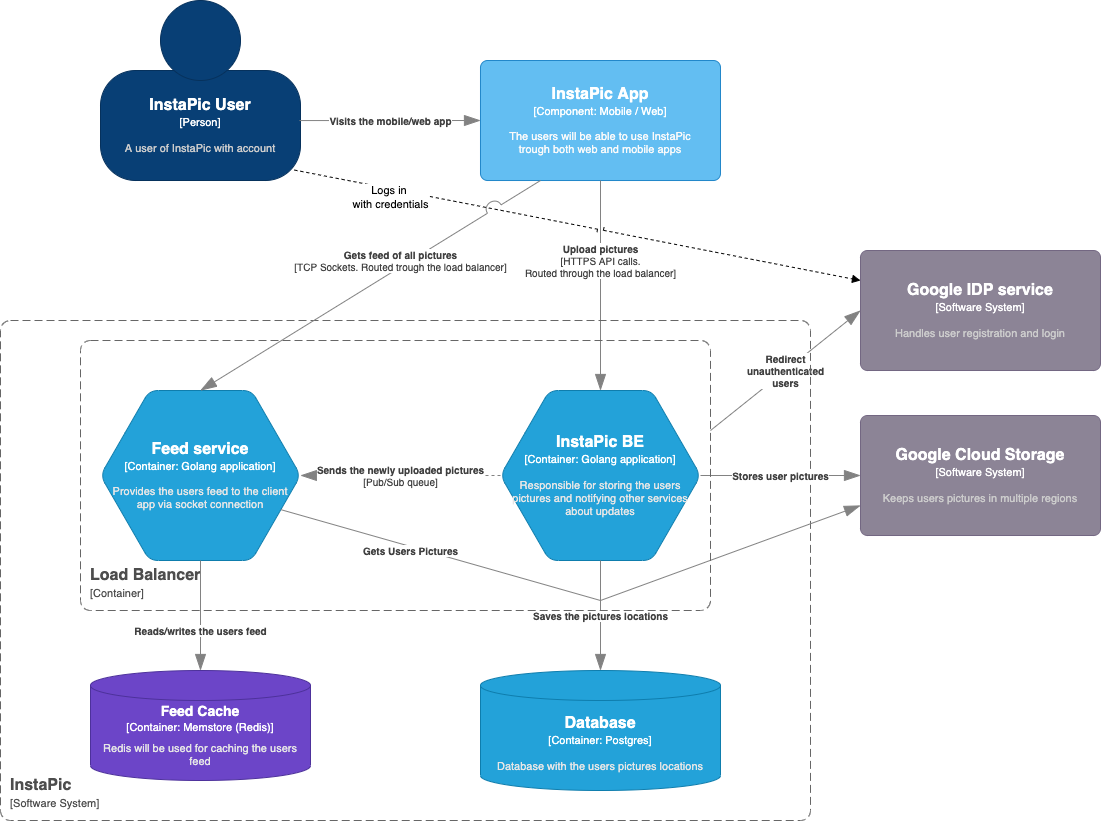
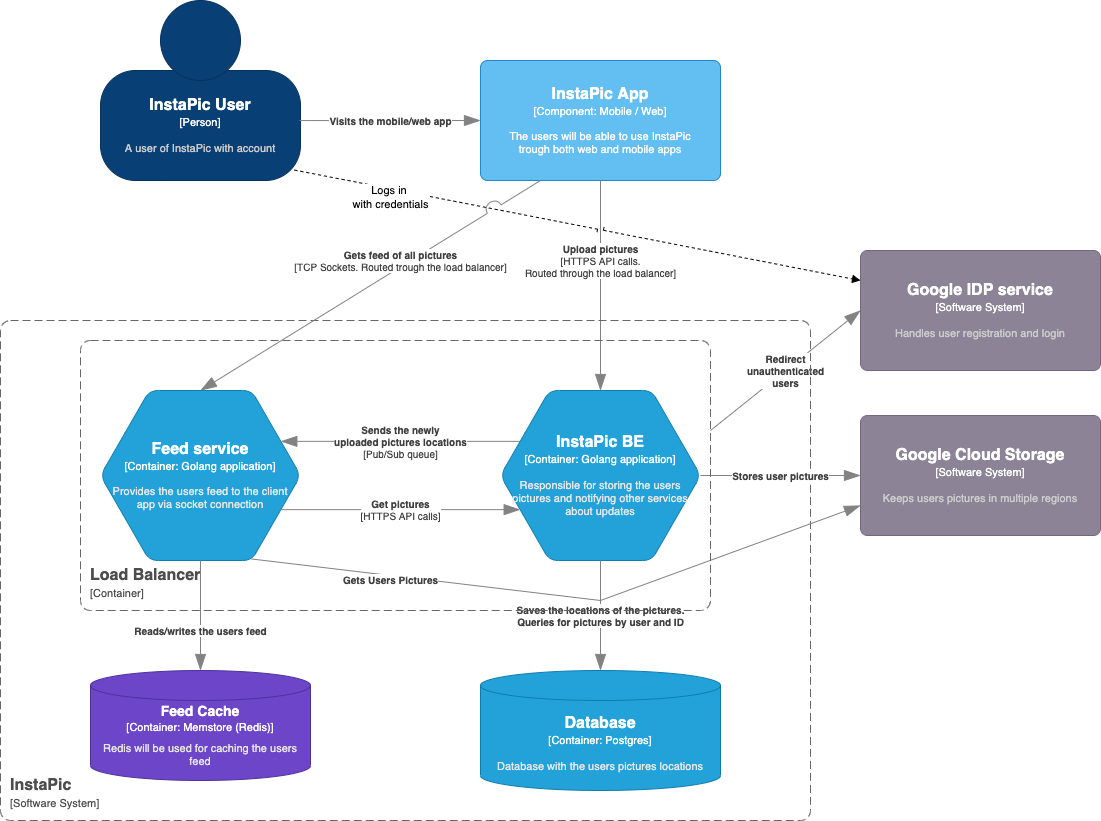
Add recent design docs

diff --git a/decisions/0001-use-google-kubernetes-engine.md b/decisions/0001-use-google-kubernetes-engine.md
@@ -11,19 +11,19 @@ We need a way to deploy and manage our service.
 
 Evaluated  ideas:
 1. Deploying directly on a VM - Hard to maintain, we have to orchestrate the deployment and monitoring of the process, not necessarily cheaper
-1. Using managed platform - Handles a lot of complexity for you f.e monitoring and restarting the process. Network communication between containers. Better utilization of resources etc.
+1. Using managed platform - Handles a lot of complexity for you f.e monitoring and restarting the process. Network communication between containers. Better utilisation of resources etc.
 
 
 ## Decision
 
-KGE provides good abstraction over the hypervisor layer with enough access to the underlying resources to be flexible when you need. Kubernetes has good utilization of resources. Provides Liveness, Readiness and Start probes, flexible auto-scaling depending on the user needs and more.
+KGE provides good abstraction over the hypervisor layer with enough access to the underlying resources to be flexible when you need. Kubernetes has good utilisation of resources. Provides Liveness, Readiness and Start probes, flexible auto-scaling depending on the user needs and more.
 
 Using it as a service provided from Google will enable us to focus on the InstaPic application itself, instead of managing infrastructure, as well as access to other GCP services via internal network.
 
 ## Consequences
 Pros:
 - The team will focus on developing the app itself
-- Outsourcing responsibilities around keeping the process alive, zero downtime deployment, auto-scailing etc. 
+- Outsourcing responsibilities around keeping the process alive, zero downtime deployment, auto-scaling etc.
 
 Cons:
 - Tight coupling with the provider.

diff --git a/decisions/0007-updating-feed-service-about-new-images.md b/decisions/0007-updating-feed-service-about-new-images.md
@@ -1,0 +1,24 @@
+# 7. Updating the feed service about new images
+Date: 2022-07-06
+
+## Status
+
+Pending
+
+## Context
+
+The feed service will update the users feed realtime, hence it has to know when new image is uploaded. There can be multiple instances of the feed service and all of them need to know about the update. Subscription based update fits this scenario perfectly.
+
+But also on starting a new Feed service or when a user requests his feed the service will need to fetch specific set of pictures (last 20-30 or the once uploaded by a given user)
+
+## Decision
+
+Pub/Sub and API calls.
+
+Pub/Sub - Every new instance of the Feed service will create it's own subscription for the Topic where the new images are pushed. Cache them in memory and in centralised cache.
+
+The main service will expose an API trough which other services (the Feed service) will be able to query images by user, or id.
+
+
+## Consequences
+Having a queue will easily allow other services to know about images, without the main service knowing about them.

diff --git a/decisions/0008-caching-in-the-feed.md b/decisions/0008-caching-in-the-feed.md
@@ -1,0 +1,24 @@
+# 8. Caching in the Feed service
+Date: 2022-07-06
+
+## Status
+
+Pending
+
+## Context
+
+When showing the general feed we will be loading a batch of the latest images. Loading them every time will add huge load to the database, the file storage and the network. Scrolling down the feed we will have to load more batches, for the user
+
+## Decision
+
+The Feed service will keep in-memory the latest batch of images, at it's going to be returned to all the users. The next 10 batches will be cached in Redis in binary format, so when the user scrolls we'll be able to retrieve them faster.
+
+
+
+## Consequences
+Pros:
+- Showing the general feed will be fast and efficient until the cached batches.
+
+Cons:
+- Showing the feed past the cached images will be slow. It will require API call to the main service and fetching the images from GCS.
+- Showing the personal feed of a user will require calls to the main service, to retrieve his already uploaded images.

diff --git a/decisions/0004-split-the-backend-in-main-service-and-feed-service.md b/decisions/0004-split-the-backend-in-main-service-and-feed-service.md
@@ -1,0 +1,27 @@
+# 4. Split the backend in main and feed services
+Date: 2022-07-06
+
+## Status
+
+Pending
+
+## Context
+
+InstaPic will allow for few operations:
+ - Upload pictures
+ - View Feed
+
+Where uploading will be less frequent. And viewing the feed will be frequent operation - every user who has opened the app will be viewing the feed with live updates.
+
+## Decision
+
+As viewing the feed will be frequently executed by many users and will be data intense we want it to be separately scalable from the main service featuring not so frequently executed operations
+
+
+## Consequences
+Pros:
+- Having separate Feed Service will allow us to scale it separately, have its own cache even deploy it multi-regionally if needed.
+- We'll have a clear separation of concerns.
+
+Cons:  
+- We'll need to update it with the newly uploaded pictures

diff --git a/decisions/0005-storing-the-images-in-gcs.md b/decisions/0005-storing-the-images-in-gcs.md
@@ -1,0 +1,25 @@
+# 5. Store the images in GCS
+Date: 2022-07-06
+
+## Status
+
+Pending
+
+## Context
+
+We need a place to keep the users images, with easy access.
+Evaluated options:
+- Database - databases are not meant for file storages, and storing the image files there is not impossible, but will put a lot of load on the DB
+- GCS - meant for file storage, easily accessible, same datacenter and network as the services
+
+
+## Decision
+
+Save the images in GCS, and saving the location in the database, along with the other required properties
+
+## Consequences
+Pros:
+- easily accessible pictures
+- no load on the database
+- distributed storage
+- sending image location to the other services, and not the image itself

diff --git a/decisions/0006-storing-images-locations-in-the-db.md b/decisions/0006-storing-images-locations-in-the-db.md
@@ -1,0 +1,23 @@
+# 6. Store the images locations in the  DB
+Date: 2022-07-06
+
+## Status
+
+Pending
+
+## Context
+
+The images will be saved in GSC which is a file storage, however we need a easy way to find them and filter by id or user.
+
+
+## Decision
+
+The image locations will be saved in an SQL database table with the following columns:
+1. Unique ID - Incrementing with every inserted picture
+1. User ID - The ID of the user who uploaded the picture
+1. Picture Location - URL to GCS where the picture is located
+
+## Consequences
+We'll be able to easily query for:
+ - Pictures uploaded by specific user
+ - Last X pictures, as the ID will determine their order

diff --git a/decisions/0002-use-google-identity-for-authentication.md b/decisions/0002-use-google-identity-for-authentication.md
@@ -1,4 +1,4 @@
-# 1. Use Google Identity for Authentication
+# 2. Use Google Identity for Authentication
 Date: 2022-07-01
 
 ## Status

diff --git a/decisions/0003-use-network-load-balancer.md b/decisions/0003-use-network-load-balancer.md
@@ -1,4 +1,4 @@
-# 1. Use Google Kubernetes Engine
+# 3. Use Network Load Balancer
 Date: 2022-07-04
 
 ## Status
